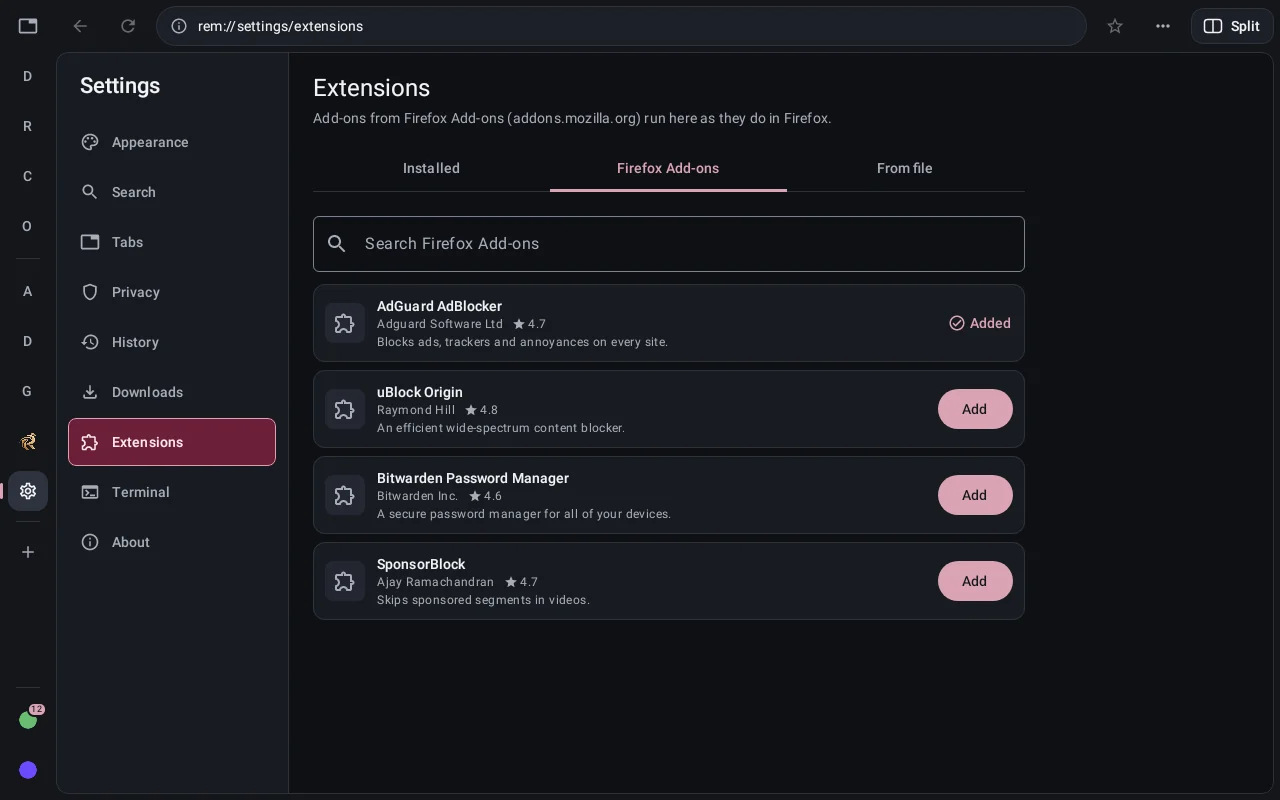
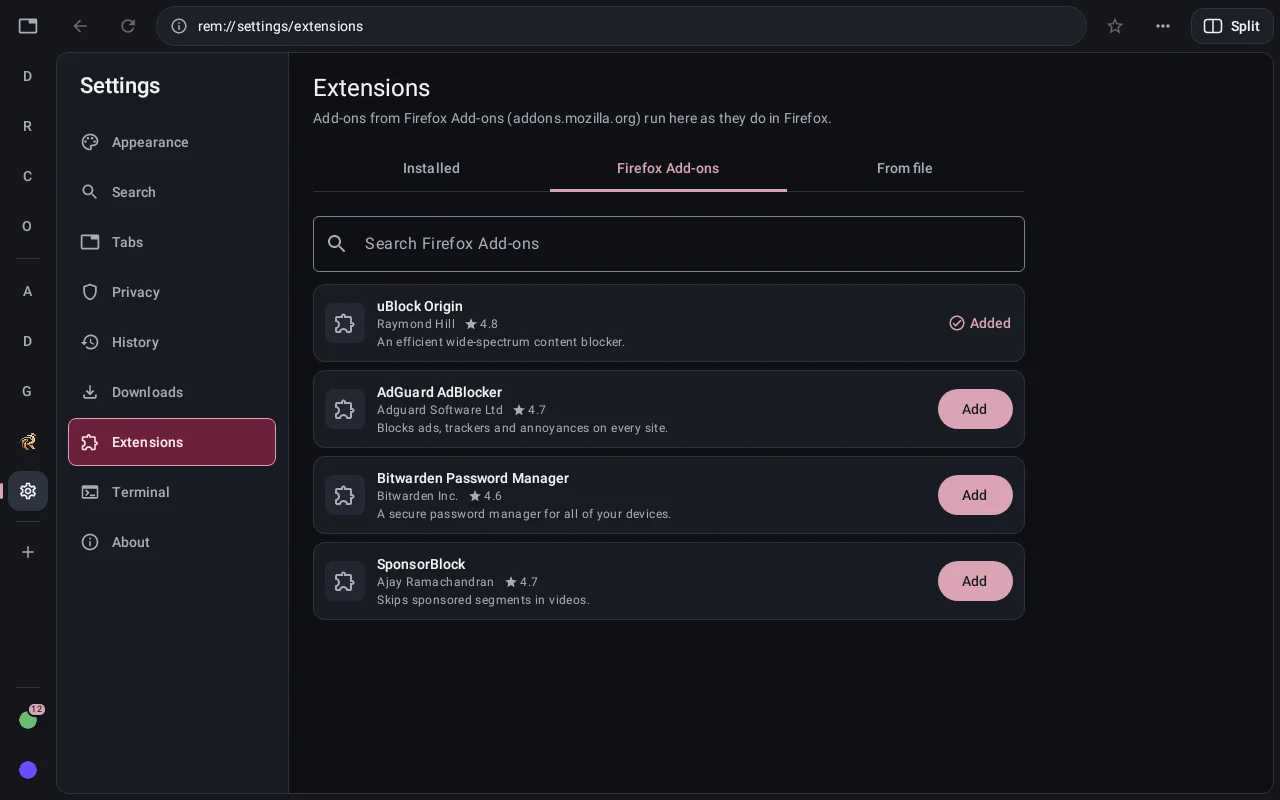
RemBrowse 0.13.9: uBlock Origin built in, Enter sends in chat boxes, Ctrl+Shift+T for a terminal
- Typing after Ctrl+A in a rich text box (claude.ai, Telegram) put one
  character in with the cursor before it: Gboard starts each word as a
  composition, and starting one over a selection made those editors
  rewrite the box. ComposingAwareInputConnection now deletes the selection
  first, in the same batch edit, so the word starts at a plain caret;
  Gboard's autocorrect is kept. Not yet confirmed on a device.
- Release: versionCode 24, CHANGELOG dated, README and user guide at
  0.13.9, test counts (595, 50 opt-in screenshot renders skipped).
- Download site: uBlock Origin in the copy and a fresh render of the
  Extensions screen showing it added.

Also in this release (committed in b6f209b): Ctrl+Shift+T terminal, the
I-beam over terminal cards, Enter sent to the page as a key, uBlock
Origin replacing AdGuard with a one-time move.

Changed region(s): [[0.2812, 0.4688, 0.5, 0.5625], [0.2812, 0.375, 0.5, 0.4375]]

diff --git a/app/src/test/java/com/rembrowser/rembrowse/engine/ComposingAwareInputConnectionTest.kt b/app/src/test/java/com/rembrowser/rembrowse/engine/ComposingAwareInputConnectionTest.kt
@@ -19,8 +19,26 @@ class ComposingAwareInputConnectionTest {
     /** Records what reaches the page's own input connection. */
     private class Recorder : InputConnectionWrapper(null, true) {
         val calls = mutableListOf<String>()
+        var selectedText: CharSequence? = null
+        var failComposing = false
+        override fun getSelectedText(flags: Int): CharSequence? = selectedText
+        override fun beginBatchEdit(): Boolean {
+            calls += "beginBatchEdit"
+            return true
+        }
+        override fun endBatchEdit(): Boolean {
+            calls += "endBatchEdit"
+            return true
+        }
+        @android.annotation.TargetApi(android.os.Build.VERSION_CODES.TIRAMISU)
+        override fun setComposingText(text: CharSequence, newCursorPosition: Int, textAttribute: android.view.inputmethod.TextAttribute?): Boolean {
+            calls += "setComposingText+attr($text,$newCursorPosition)"
+            if (failComposing) throw IllegalStateException("boom")
+            return true
+        }
         override fun setComposingText(text: CharSequence?, newCursorPosition: Int): Boolean {
             calls += "setComposingText($text,$newCursorPosition)"
+            if (failComposing) throw IllegalStateException("boom")
             return true
         }
         override fun setComposingRegion(start: Int, end: Int): Boolean {
@@ -88,5 +106,98 @@ class ComposingAwareInputConnectionTest {
             listOf("setComposingText(hel,1)", "setComposingRegion(0,3)", "commitText(hello,1)", "finishComposingText"),
             target.calls
         )
+    }
+
+    private val attribute: android.view.inputmethod.TextAttribute? = null
+
+    @Test
+    fun newWordOverASelection_deletesTheSelectionInOneBatchFirst() {
+        target.selectedText = "old"
+        assertTrue(connection.setComposingText("n", 1))
+        assertEquals(
+            listOf("beginBatchEdit", "commitText(,1)", "setComposingText(n,1)", "endBatchEdit"),
+            target.calls
+        )
+        assertTrue(connection.composing)
+    }
+
+    @Test
+    fun newWordWithNoSelection_onlySetsTheComposingText() {
+        target.selectedText = ""
+        connection.setComposingText("n", 1)
+        assertEquals(listOf("setComposingText(n,1)"), target.calls)
+        target.calls.clear()
+        target.selectedText = null
+        connection.finishComposingText()
+        target.calls.clear()
+        connection.setComposingText("m", 1)
+        assertEquals(listOf("setComposingText(m,1)"), target.calls)
+    }
+
+    @Test
+    fun alreadyComposingWithASelection_onlySetsTheComposingText() {
+        connection.setComposingText("n", 1)
+        target.calls.clear()
+        target.selectedText = "old"
+        connection.setComposingText("ne", 1)
+        assertEquals(listOf("setComposingText(ne,1)"), target.calls)
+        assertTrue(connection.composing)
+    }
+
+    @Test
+    fun emptyComposingText_deletesNothingEvenOverASelection() {
+        target.selectedText = "old"
+        connection.setComposingText("", 1)
+        assertEquals(listOf("setComposingText(,1)"), target.calls)
+        assertFalse(connection.composing)
+    }
+
+    @Test
+    fun theBatchIsEnded_evenWhenSettingTheComposingTextThrows() {
+        target.selectedText = "old"
+        target.failComposing = true
+        try {
+            connection.setComposingText("n", 1)
+            org.junit.Assert.fail("expected the failure to propagate")
+        } catch (expected: IllegalStateException) {
+        }
+        assertEquals(
+            listOf("beginBatchEdit", "commitText(,1)", "setComposingText(n,1)", "endBatchEdit"),
+            target.calls
+        )
+    }
+
+    @Test
+    fun theTextAttributeOverload_behavesTheSame() {
+        target.selectedText = "old"
+        assertTrue(connection.setComposingText("n", 1, attribute))
+        assertEquals(
+            listOf("beginBatchEdit", "commitText(,1)", "setComposingText+attr(n,1)", "endBatchEdit"),
+            target.calls
+        )
+        assertTrue(connection.composing)
+
+        target.calls.clear()
+        connection.setComposingText("ne", 1, attribute)
+        assertEquals("Already composing", listOf("setComposingText+attr(ne,1)"), target.calls)
+
+        target.calls.clear()
+        connection.finishComposingText()
+        target.calls.clear()
+        connection.setComposingText("", 1, attribute)
+        assertEquals("Empty text deletes nothing", listOf("setComposingText+attr(,1)"), target.calls)
+        assertFalse(connection.composing)
+    }
+
+    @Test
+    fun theTextAttributeOverload_endsTheBatchWhenItThrows() {
+        target.selectedText = "old"
+        target.failComposing = true
+        try {
+            connection.setComposingText("n", 1, attribute)
+            org.junit.Assert.fail("expected the failure to propagate")
+        } catch (expected: IllegalStateException) {
+        }
+        assertEquals("endBatchEdit", target.calls.last())
     }
 }

diff --git a/app/src/main/java/com/rembrowser/rembrowse/engine/PaneGeckoView.kt b/app/src/main/java/com/rembrowser/rembrowse/engine/PaneGeckoView.kt
@@ -133,22 +133,43 @@ class PaneGeckoView(
     }
 }
 
-/** Passes everything on to the page's input connection, noting whether a word is being composed. */
+/**
+ * Passes everything on to the page's input connection, noting whether a word is being composed,
+ * with one change: a word that starts over selected text first deletes the selection.
+ *
+ * Keyboard apps (Gboard included, with a physical keyboard) type into a page as a word being
+ * composed. Started over a selection, as after Ctrl+A, Android's replaceText collapses the caret
+ * to the selection's end and Gecko then starts the composition over the selected text, which
+ * rich-text editors (claude.ai's, Telegram's) answer by rewriting the box: one character appeared
+ * and the caret landed before it. Deleting the selection first, in the same batch, starts the
+ * word at a plain caret, exactly like typing into an empty box. (GeckoView already reorders
+ * commitText this way; setComposingText it leaves alone.)
+ */
 internal class ComposingAwareInputConnection(target: InputConnection) : InputConnectionWrapper(target, true) {
 
     @Volatile
     var composing = false
         private set
 
-    override fun setComposingText(text: CharSequence?, newCursorPosition: Int): Boolean {
-        composing = !text.isNullOrEmpty()
-        return super.setComposingText(text, newCursorPosition)
-    }
+    override fun setComposingText(text: CharSequence?, newCursorPosition: Int): Boolean =
+        startingOverSelection(text) { super.setComposingText(text, newCursorPosition) }
 
     @RequiresApi(Build.VERSION_CODES.TIRAMISU)
-    override fun setComposingText(text: CharSequence, newCursorPosition: Int, textAttribute: TextAttribute?): Boolean {
-        composing = text.isNotEmpty()
-        return super.setComposingText(text, newCursorPosition, textAttribute)
+    override fun setComposingText(text: CharSequence, newCursorPosition: Int, textAttribute: TextAttribute?): Boolean =
+        startingOverSelection(text) { super.setComposingText(text, newCursorPosition, textAttribute) }
+
+    /** Runs [compose]; a new word over selected text deletes the selection first, in one batch. */
+    private inline fun startingOverSelection(text: CharSequence?, compose: () -> Boolean): Boolean {
+        val replacing = !composing && !text.isNullOrEmpty() && !getSelectedText(0).isNullOrEmpty()
+        if (replacing) beginBatchEdit()
+        // The batch is closed whatever happens: left open, the keyboard app would get no more updates
+        return try {
+            if (replacing) super.commitText("", 1)
+            composing = !text.isNullOrEmpty()
+            compose()
+        } finally {
+            if (replacing) endBatchEdit()
+        }
     }
 
     override fun setComposingRegion(start: Int, end: Int): Boolean {

diff --git a/site/index.html b/site/index.html
@@ -180,10 +180,10 @@ home-assistant
           <div class="tile-copy">
             <p class="tile-eyebrow">Extensions</p>
             <h3>Real Firefox add&#8209;ons.</h3>
-            <p>uBlock Origin, Bitwarden, SponsorBlock and the rest, straight from Firefox Add-ons. AdGuard blocks ads from the first launch.</p>
+            <p>Bitwarden, SponsorBlock, Dark Reader and the rest, straight from Firefox Add-ons. uBlock Origin blocks ads from the first launch.</p>
           </div>
           <figure class="tile-shot">
-            <img src="assets/img/extensions-1280.webp" srcset="assets/img/extensions-720.webp 720w, assets/img/extensions-1280.webp 1280w" sizes="(min-width: 1024px) 720px, 100vw" width="1280" height="800" loading="lazy" decoding="async" alt="RemBrowse settings, Extensions tab: Firefox Add-ons search with AdGuard AdBlocker added and uBlock Origin, Bitwarden and SponsorBlock ready to add.">
+            <img src="assets/img/extensions-1280.webp" srcset="assets/img/extensions-720.webp 720w, assets/img/extensions-1280.webp 1280w" sizes="(min-width: 1024px) 720px, 100vw" width="1280" height="800" loading="lazy" decoding="async" alt="RemBrowse settings, Extensions tab: Firefox Add-ons search with uBlock Origin added and AdGuard AdBlocker, Bitwarden and SponsorBlock ready to add.">
           </figure>
         </article>
 
@@ -260,7 +260,7 @@ Already up to date.
             <li>
               <svg class="ic" aria-hidden="true"><use href="#i-ban"/></svg>
               <h4>Ads blocked</h4>
-              <p>AdGuard AdBlocker is set up on first launch. Switch it off whenever you like.</p>
+              <p>uBlock Origin is set up on first launch: search ads included, and trackers hiding behind a site's own address. Switch it off whenever you like.</p>
             </li>
             <li>
               <svg class="ic" aria-hidden="true"><use href="#i-no-server"/></svg>
@@ -349,7 +349,7 @@ Already up to date.
 
 <footer class="footer">
   <div class="wrap">
-    <p>RemBrowse is built on Mozilla GeckoView and runs Firefox add-ons from addons.mozilla.org. Requires Android 8.0 or later. Ad blocking by AdGuard AdBlocker, which can be switched off or removed in Settings.</p>
+    <p>RemBrowse is built on Mozilla GeckoView and runs Firefox add-ons from addons.mozilla.org. Requires Android 8.0 or later. Ad blocking by uBlock Origin, which can be switched off or removed in Settings.</p>
     <div class="footer-row">
       <a class="nav-brand" href="#top" aria-label="RemBrowse, back to top">
         <img src="assets/img/mark-64.webp" width="24" height="24" alt="">

diff --git a/docs/ARCHITECTURE.md b/docs/ARCHITECTURE.md
@@ -156,7 +156,9 @@ Focus is always handed somewhere deliberate, never just cleared. Clearing it let
 
 Hardware keys reach the keyboard app (input method) before the window's views whenever a text field is focused, and `Activity.dispatchKeyEvent` only runs after it. A keyboard app that handles physical keys may type a key itself, or send it back through the focused field's `InputConnection`, which for a web page's text box is GeckoView's `GeckoInputConnection.sendKeyEvent`, straight to Gecko. Either way the activity never saw it, which is how `Ctrl+T` did nothing in a page's text box. So the window's content is a `ShortcutKeysLayout` (in `MainActivity.kt`) around the Compose view: Android hands every key down the focused view's ancestors first (`dispatchKeyEventPreIme`), and the layout resolves browser shortcuts there, before the keyboard app, swallowing the matching key release too. `dispatchKeyEvent` still resolves them for anything that bypasses the layout. Dialogs are windows of their own and keep their own keys; Go to address closes on `Ctrl+G` itself.
 
-The same layer sends a physical **Enter** to the focused web page as the key it is (`PaneGeckoView.sendEnterPastKeyboardApp`), before the keyboard app can turn it into text. A keyboard app commits Enter as a typed line break, and Gecko hands that to the page as text with a "Process" key (keyCode 229) rather than a keydown Enter, so a chat box that sends on Enter started a new line instead. The key goes through the session's own key path, `SessionTextInput.onKeyDown` / `onKeyUp`, the one GeckoView uses for keys the keyboard app leaves alone; Gecko commits a word still being composed before it dispatches the key. While a Chinese, Japanese or Korean keyboard is composing, Enter is left to it, since it confirms the characters there (`ComposingAwareInputConnection` wraps the page's `InputConnection` to know). 0.13.8 sent the key through the `InputConnection` after checking `onCheckIsTextEditor()`, which GeckoView never overrides: the check was always false and the interception never ran. The release of an Enter that submitted the address bar or a popup is swallowed first, because focus has moved to the page by then.
+The same layer sends a physical **Enter** to the focused web page as the key it is (`PaneGeckoView.sendEnterPastKeyboardApp`), before the keyboard app can turn it into text. A keyboard app commits Enter as a typed line break, and Gecko hands that to the page as text with a "Process" key (keyCode 229) rather than a keydown Enter, so a chat box that sends on Enter started a new line instead. The key goes through the session's own key path, `SessionTextInput.onKeyDown` / `onKeyUp`, the one GeckoView uses for keys the keyboard app leaves alone; Gecko commits a word still being composed before it dispatches the key. While a Chinese, Japanese or Korean keyboard is composing, Enter is left to it, since it confirms the characters there (`ComposingAwareInputConnection` wraps the page's `InputConnection` to know). 0.13.8 sent the key through the `InputConnection` after checking `onCheckIsTextEditor()`, which GeckoView never overrides: the check was always false and the interception never ran. The release of an Enter that submitted the address bar or a popup is swallowed first, because focus has moved to the page by then; the release of an Enter sent to a page goes to that same page (`enterTarget`), even if focus moved in between.
+
+**Typing over a selection.** Keyboard apps, Gboard included with a physical keyboard, type into a page as a word being composed (`setComposingText`). Started over selected text, as after Ctrl+A, Android's `BaseInputConnection.replaceText` collapses the caret to the selection's end and Gecko then starts a composition over the selected text; rich-text editors (ProseMirror on claude.ai, Telegram's) rewrite the box at that point, and one character appeared with the caret before it. GeckoView reorders `commitText` for this but not `setComposingText`. `ComposingAwareInputConnection` therefore deletes the selection first (`commitText("", 1)`) in the same batch edit when a new word starts over one, so the word starts at a plain caret, as in an empty box. The keyboard app's autocorrect and suggestions are kept. Sending a physical keyboard's printable keys straight to Gecko, as desktop Firefox effectively does, would avoid compositions altogether but drops autocorrect and changes every key's path; it is the fallback if this isn't enough on a device.
 
 ### Go to address
 

diff --git a/CHANGELOG.md b/CHANGELOG.md
@@ -2,7 +2,7 @@
 
 All notable changes to **RemBrowse** (`com.rembrowser.rembrowse`) are documented in this file.
 
-## Unreleased
+## v0.13.9 (2026-11-21) — uBlock Origin built in, Enter sends in chat boxes, Ctrl+Shift+T for a terminal
 
 ### Changed
 * **`Ctrl+Shift+T` opens a new terminal**, from a web page or from inside another terminal, as in terminal apps. It is shown next to **New terminal** in the More menu and the command palette. Inside a terminal, a new browser tab moves from `Ctrl+Shift+T` to `Ctrl+Shift+N`.
@@ -11,6 +11,10 @@ All notable changes to **RemBrowse** (`com.rembrowser.rembrowse`) are documented
 ### Fixed
 * **The text cursor (I-beam) showed over the terminal's cards and banners**, such as "Couldn't connect" and its buttons, the password and server-key questions, and the Connecting and Disconnected bars. They now show the normal pointer; the I-beam is only over the terminal's text. A pane divider's resize cursor also wins over a terminal beside it now, as it already did over web pages.
 * **Enter in a web chat box added a new line instead of sending** (claude.ai's message box, for one), with a physical keyboard. 0.13.8 meant to send Enter to the page as a key, but checked first whether the page view was a text editor, which GeckoView never says, so it never did: the keyboard app turned Enter into a typed line break. Enter now goes to the page through the browser engine's own key path; a word still being typed is committed first. Chinese, Japanese and Korean keyboards keep Enter while composing. Not yet confirmed on a device.
+* **After Ctrl+A in a rich text box, typing put one character in and the cursor before it** (claude.ai's and Telegram's message boxes, with Gboard and a physical keyboard). Gboard starts each word as "being composed", and starting one over a selection made those editors rewrite the box. The selection is now deleted first, so the word starts at a plain cursor, as in an empty box; Gboard's autocorrect is kept. Not yet confirmed on a device.
+
+### Testing
+595 automated tests (50 of them screenshot renders that run only on request), including the move from AdGuard to uBlock Origin in every state the app can be in, the Ctrl+Shift+T keys in and out of a terminal, the cursor claim over terminal cards, and the order of calls when a word starts over selected text. Gecko itself can't run in the tests, so the Enter and typing fixes are covered up to the point they hand the key or text to GeckoView.
 
 ## v0.13.8 (2026-11-21) — Terminal: Tailscale SSH, and clearer connection errors
 

diff --git a/README.md b/README.md
@@ -2,13 +2,13 @@
   <img src="docs/assets/rembrowse-logo.jpg" alt="RemBrowse" width="520">
 </p>
 
-# RemBrowse (`v0.13.8`)
+# RemBrowse (`v0.13.9`)
 
 **RemBrowse** (`com.rembrowser.rembrowse`) is a minimal, tiled web browser for Android laptops (Googlebook OS) and Android devices. It is written in Kotlin and Jetpack Compose on top of **Mozilla GeckoView**, and runs real Firefox **WebExtensions (`.xpi`)**.
 
 ## Download latest
 
-**Version 0.13.8** — pick the file that matches your device's processor, open it on the device and confirm the install. Downloads and in-app updates come from [browse.example.com](https://browse.example.com/).
+**Version 0.13.9** — pick the file that matches your device's processor, open it on the device and confirm the install. Downloads and in-app updates come from [browse.example.com](https://browse.example.com/).
 
 > **Updating from 0.08 or earlier:** from 0.09 on, RemBrowse is signed with a different key, so Android will not install it over 0.08 or older. Uninstall RemBrowse first; this removes its tabs, bookmarks and extensions. Updating from 0.09 works normally.
 

diff --git a/docs/BUILD_AND_TEST_GUIDE.md b/docs/BUILD_AND_TEST_GUIDE.md
@@ -45,7 +45,7 @@ PROJECT_CACHE_DIR="$HOME/.cache/projects/$(basename "$PWD")-$(pwd -P | sha1sum |
 
 ## 3. Running Automated Tests
 
-Run all **558 tests** (JVM unit tests, Robolectric persistence and headless Jetpack Compose UI tests):
+Run all **595 tests** (JVM unit tests, Robolectric persistence and headless Jetpack Compose UI tests):
 
 ```bash
 ./gradlew testDebugUnitTest --no-daemon \

diff --git a/docs/USER_GUIDE.md b/docs/USER_GUIDE.md
@@ -1,4 +1,4 @@
-# RemBrowse User Guide (`v0.13.8`)
+# RemBrowse User Guide (`v0.13.9`)
 
 RemBrowse is a minimal, tiled web browser with Firefox extension support, built for Android laptops (Googlebook OS) and Android devices.
 
